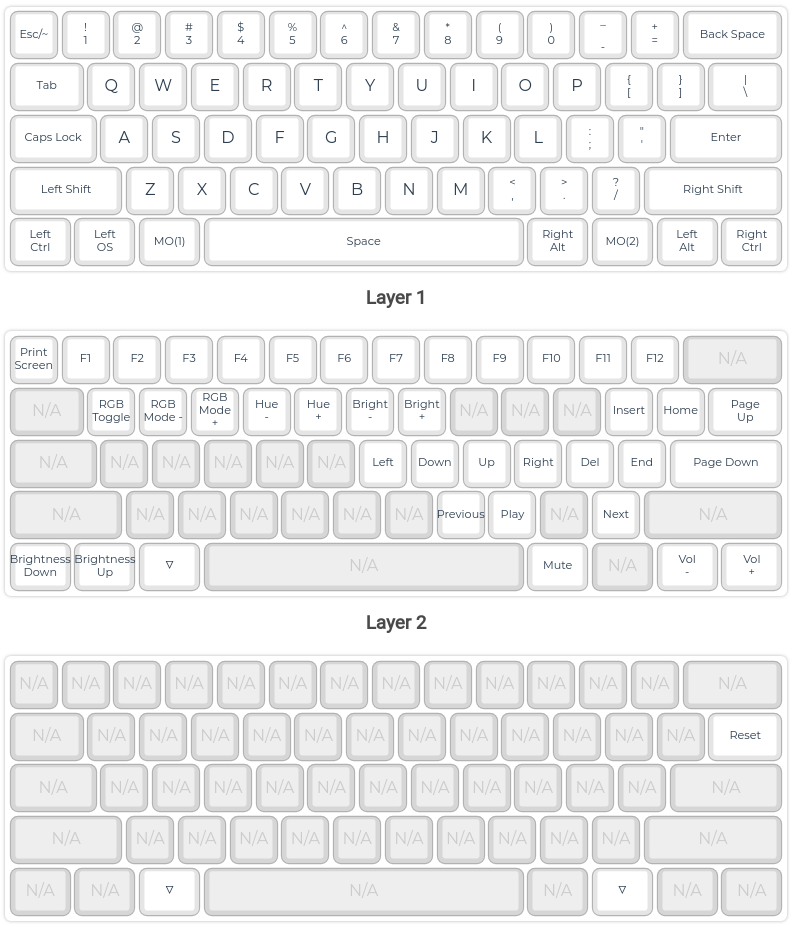
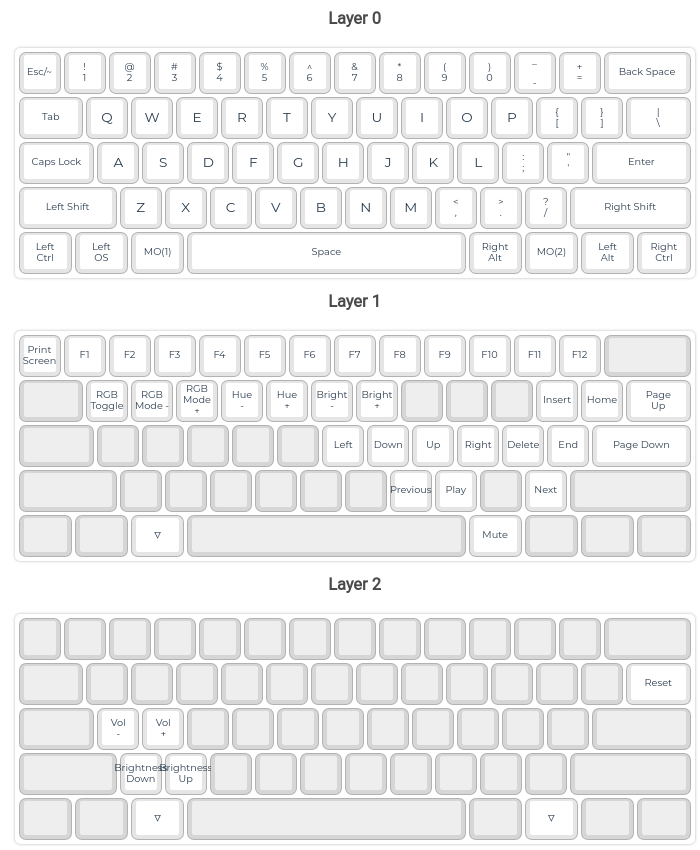
Added layout.png instructions to README, update layout.png

Changed region(s): [[0.0, 0.0, 1.0, 1.0]]

diff --git a/keyboards/dz60/keymaps/portwolf/README.md b/keyboards/dz60/keymaps/portwolf/README.md
@@ -8,6 +8,11 @@ Change layout to your liking
 ```
 https://config.qmk.fm
 ```
+Update layout picture
+
+```
+on config.qmk.fm click "Print Layout" -> scrot, save as qmk_firmware/keyboards/dz60/keymaps/portwolf/layout.png
+```
 Download .json file (keymap.json) from the configurator website and place it in:
 ```
 qmk_firmware/keyboards/dz60/keymaps/portwolf/keymap.json
@@ -20,11 +25,10 @@ Put dz60 into bootloader mode. Check lsusb, should indicate: atmel*****
 ```
 space + b
 ```
-Flash the compiled .hex file
+Flash the compiled .hex file (keyboard restarts autoMAGICALLY! - ready to use after flash)
 ```
 qmk flash
 ```
-
 ## Update repository
 Update local repo first
 ```
